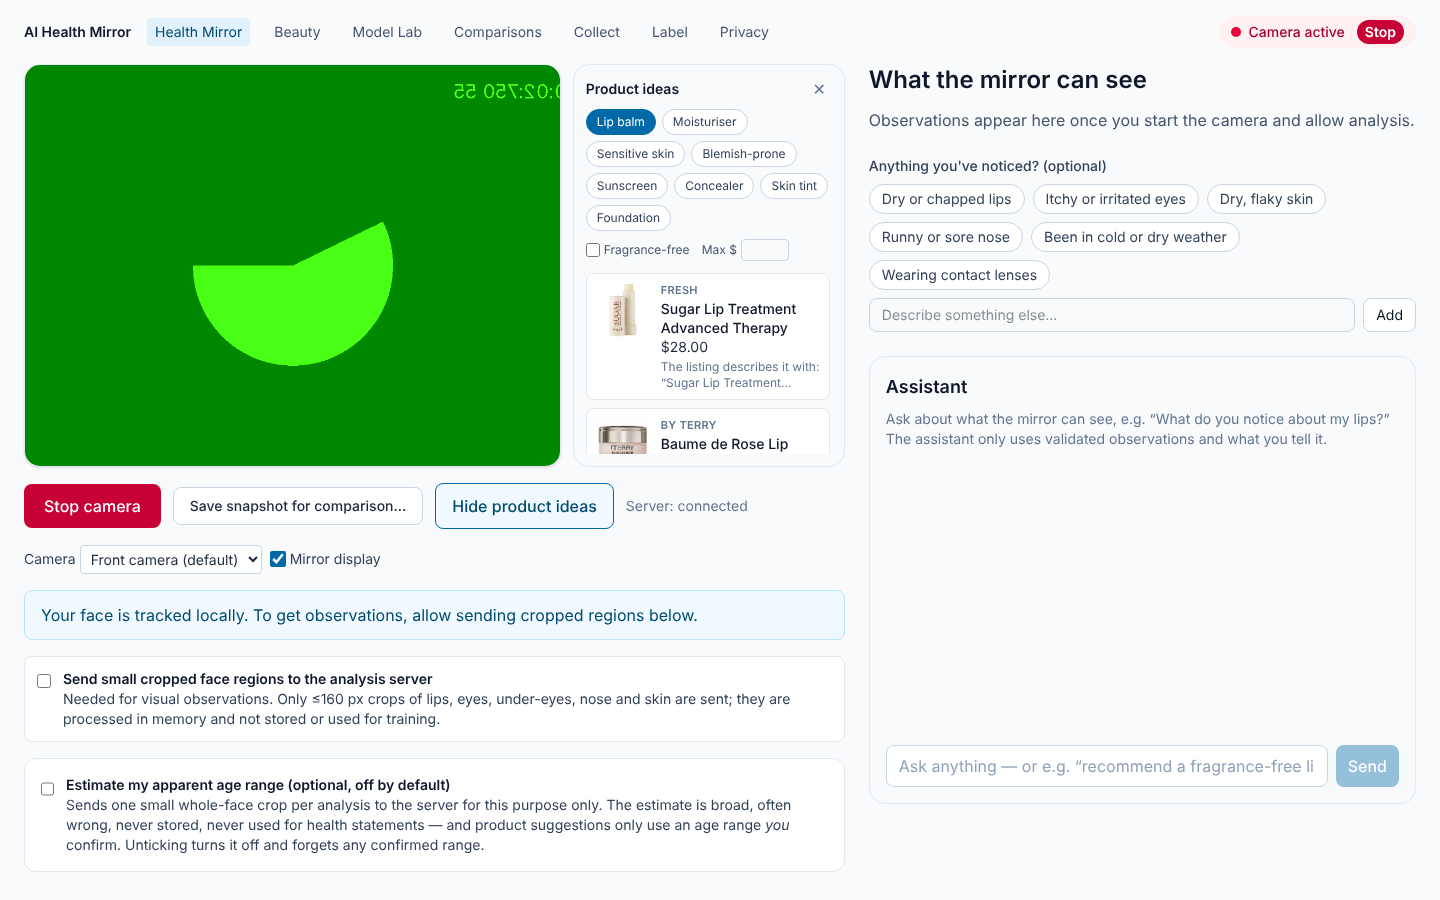
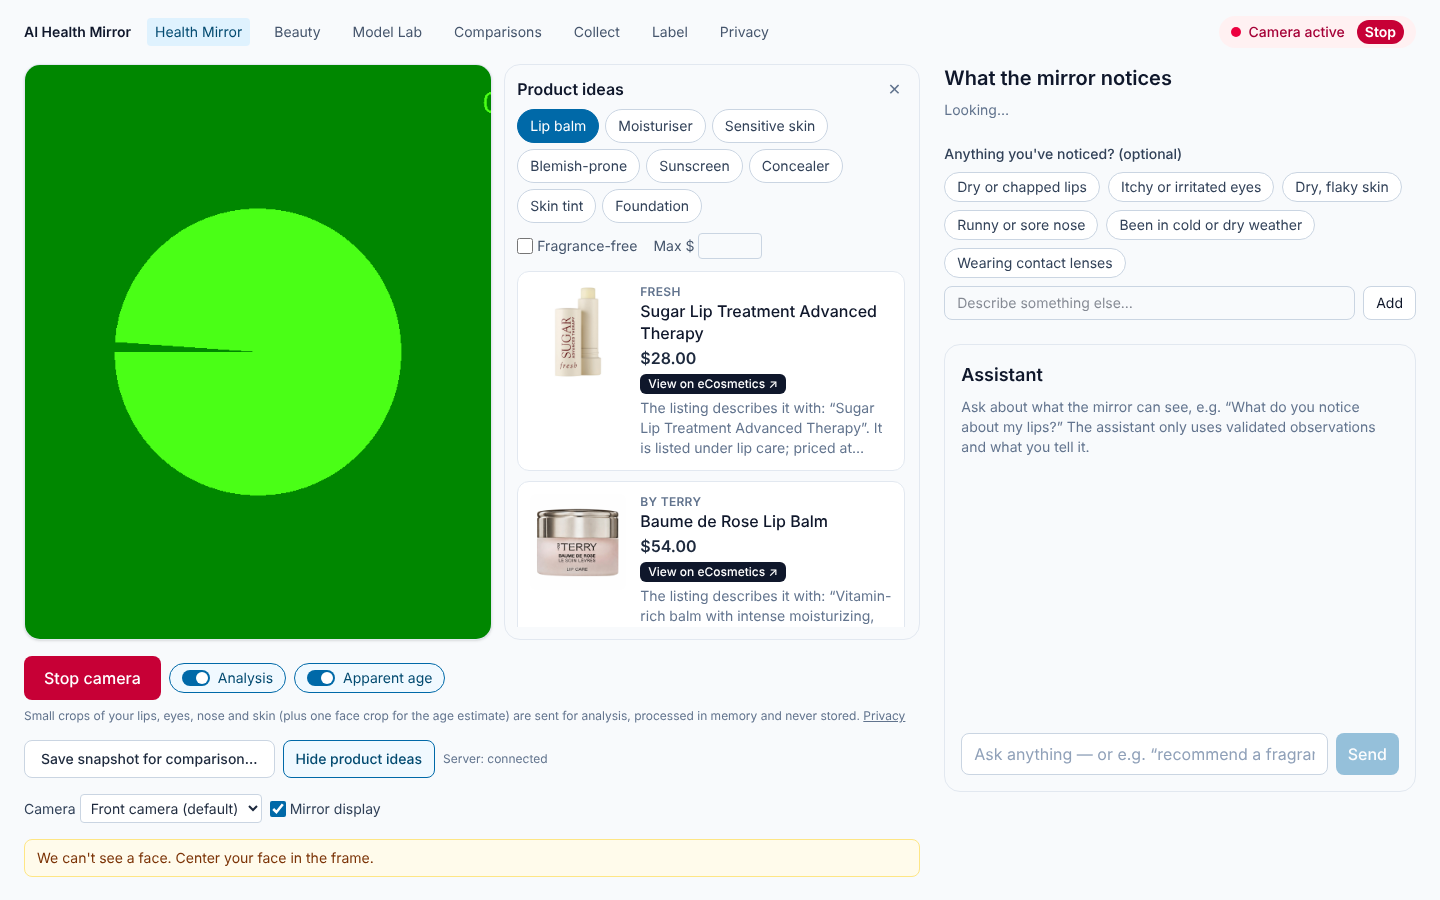
Bigger product ideas panel beside the mirror
Wider sidebar (22-26rem), larger product cards (96px images, larger name and
price, 'View on eCosmetics' cue, three lines of explanation), larger chips and
controls; the video stretches to the panel height so both line up.

Claude-Session: https://claude.ai/code/session_019ZWJU4FG2Bk888JLbkFi3a

diff --git a/frontend/components/Beauty/ProductSidebar.tsx b/frontend/components/Beauty/ProductSidebar.tsx
@@ -39,7 +39,7 @@ export function ProductSidebar({ onClose }: { onClose?: () => void }) {
   return (
     <aside aria-label="Product ideas" className="flex h-full max-h-full min-h-0 flex-col overflow-hidden rounded-2xl border border-slate-200 bg-slate-50 p-3">
       <div className="mb-2 flex items-center justify-between">
-        <h2 className="text-sm font-semibold text-slate-900">Product ideas</h2>
+        <h2 className="text-base font-semibold text-slate-900">Product ideas</h2>
         {onClose && (
           <button type="button" onClick={onClose} className="rounded px-1.5 text-slate-500 hover:bg-slate-200" aria-label="Hide product ideas">
             ✕
@@ -54,7 +54,7 @@ export function ProductSidebar({ onClose }: { onClose?: () => void }) {
             onClick={() => setPicked(c)}
             aria-pressed={active?.key === c.key}
             className={cx(
-              "rounded-full border px-2.5 py-1 text-xs",
+              "rounded-full border px-3 py-1.5 text-sm",
               active?.key === c.key ? "border-sky-700 bg-sky-700 text-white" : "border-slate-300 bg-white text-slate-700 hover:border-sky-400",
             )}
             title={c.fromObservation ? "Based on what the mirror noticed in this image" : undefined}
@@ -64,18 +64,18 @@ export function ProductSidebar({ onClose }: { onClose?: () => void }) {
           </button>
         ))}
       </div>
-      <div className="mt-2 flex items-center gap-3 text-xs text-slate-600">
+      <div className="mt-2.5 flex items-center gap-4 text-sm text-slate-600">
         <label className="flex items-center gap-1">
-          <input type="checkbox" checked={fragranceFree} onChange={(e) => setFragranceFree(e.target.checked)} className="h-3.5 w-3.5" />
+          <input type="checkbox" checked={fragranceFree} onChange={(e) => setFragranceFree(e.target.checked)} className="h-4 w-4" />
           Fragrance-free
         </label>
         <label className="flex items-center gap-1">
           Max $
-          <input value={budget} onChange={(e) => setBudget(e.target.value.replace(/[^0-9.]/g, ""))} inputMode="decimal" className="w-12 rounded border border-slate-300 px-1 py-0.5" aria-label="Maximum price" />
+          <input value={budget} onChange={(e) => setBudget(e.target.value.replace(/[^0-9.]/g, ""))} inputMode="decimal" className="w-16 rounded border border-slate-300 px-1.5 py-0.5" aria-label="Maximum price" />
         </label>
       </div>
 
-      <div className="mt-3 min-h-0 flex-1 space-y-2 overflow-y-auto pr-0.5">
+      <div className="mt-3 min-h-0 flex-1 space-y-2.5 overflow-y-auto pr-0.5">
         {!active && <p className="text-xs text-slate-500">Tap what you&apos;re looking for{noticed.length === 0 ? " — or turn on analysis and ideas will follow what the mirror notices" : ""}.</p>}
         {active && active.fromObservation && !picked && (
           <p className="text-xs text-slate-500">Following what the mirror noticed ({active.label.toLowerCase()}). Tap another option any time.</p>
@@ -83,7 +83,7 @@ export function ProductSidebar({ onClose }: { onClose?: () => void }) {
         {recommendation.pending && <p className="text-xs text-slate-500">Finding products…</p>}
         {recommendation.error && <p role="alert" className="text-xs text-rose-700">{recommendation.error}</p>}
         {res && !recommendation.pending && res.results.length === 0 && <p className="text-xs text-slate-500">No matching listings — try another option or remove filters.</p>}
-        {res?.results.map((r) => <MiniProductCard key={r.product.product_id} ranked={r} why={why.get(r.product.product_id)} />)}
+        {res?.results.map((r) => <MiniProductCard key={r.product.product_id} ranked={r} why={why.get(r.product.product_id)} size="lg" />)}
         {res && res.results.length > 0 && (
           <p className="pt-1 text-[11px] leading-snug text-slate-400">From eCosmetics listings; ranked by your choices, not product testing. Opens the retailer site.</p>
         )}

diff --git a/frontend/components/Beauty/MiniProductCard.tsx b/frontend/components/Beauty/MiniProductCard.tsx
@@ -4,30 +4,32 @@ import type { RankedProduct } from "@/lib/catalog";
 import { formatPrice } from "@/lib/beauty";
 
 /** Compact product row for the sidebar and for products shown inside chat replies. */
-export function MiniProductCard({ ranked, why, dark = false }: { ranked: RankedProduct; why?: string; dark?: boolean }) {
+export function MiniProductCard({ ranked, why, dark = false, size = "sm" }: { ranked: RankedProduct; why?: string; dark?: boolean; size?: "sm" | "lg" }) {
   const p = ranked.product;
+  const lg = size === "lg";
   return (
     <a
       href={p.url}
       target="_blank"
       rel="noopener noreferrer"
       aria-label={`${p.brand ?? ""} ${p.name} on eCosmetics (opens in a new tab)`}
-      className={`flex gap-2.5 rounded-lg border p-2 transition-colors ${dark ? "border-zinc-700 bg-zinc-900 hover:bg-zinc-800" : "border-slate-200 bg-white hover:bg-slate-50"}`}
+      className={`flex ${lg ? "gap-3.5 rounded-xl p-3" : "gap-2.5 rounded-lg p-2"} border transition-colors ${dark ? "border-zinc-700 bg-zinc-900 hover:bg-zinc-800" : "border-slate-200 bg-white hover:bg-slate-50"}`}
     >
       {p.image_url ? (
         // eslint-disable-next-line @next/next/no-img-element
-        <img src={p.image_url} alt="" loading="lazy" referrerPolicy="no-referrer" className="h-14 w-14 shrink-0 rounded-md bg-slate-100 object-contain" />
+        <img src={p.image_url} alt="" loading="lazy" referrerPolicy="no-referrer" className={`${lg ? "h-24 w-24 rounded-lg" : "h-14 w-14 rounded-md"} shrink-0 bg-white object-contain`} />
       ) : (
-        <div className="h-14 w-14 shrink-0 rounded-md bg-slate-100" />
+        <div className={`${lg ? "h-24 w-24 rounded-lg" : "h-14 w-14 rounded-md"} shrink-0 bg-slate-100`} />
       )}
       <span className="min-w-0 flex-1">
-        <span className={`block truncate text-[11px] font-semibold uppercase tracking-wide ${dark ? "text-zinc-400" : "text-slate-500"}`}>{p.brand ?? ""}</span>
-        <span className={`line-clamp-2 text-sm font-medium leading-snug ${dark ? "text-zinc-100" : "text-slate-900"}`}>{p.name}</span>
-        <span className={`block text-sm ${p.price == null ? "text-slate-500" : dark ? "text-zinc-200" : "text-slate-800"}`} data-testid="mini-price">
+        <span className={`block truncate ${lg ? "text-xs" : "text-[11px]"} font-semibold uppercase tracking-wide ${dark ? "text-zinc-400" : "text-slate-500"}`}>{p.brand ?? ""}</span>
+        <span className={`line-clamp-2 ${lg ? "text-base" : "text-sm"} font-medium leading-snug ${dark ? "text-zinc-100" : "text-slate-900"}`}>{p.name}</span>
+        <span className={`mt-0.5 block ${lg ? "text-base font-semibold" : "text-sm"} ${p.price == null ? "text-slate-500" : dark ? "text-zinc-200" : "text-slate-800"}`} data-testid="mini-price">
           {formatPrice(p)}
           {p.stale && <span className="ml-1 rounded bg-amber-100 px-1 text-[10px] font-semibold text-amber-900">stale</span>}
         </span>
-        {why && <span className={`mt-0.5 line-clamp-2 text-xs ${dark ? "text-zinc-400" : "text-slate-500"}`}>{why}</span>}
+        {lg && <span className="mt-1 inline-block rounded-md bg-slate-900 px-2 py-0.5 text-xs font-medium text-white">View on eCosmetics ↗</span>}
+        {why && <span className={`mt-1 ${lg ? "line-clamp-3 text-sm" : "line-clamp-2 text-xs"} ${dark ? "text-zinc-400" : "text-slate-500"}`}>{why}</span>}
       </span>
     </a>
   );

diff --git a/frontend/components/Mirror/MirrorApp.tsx b/frontend/components/Mirror/MirrorApp.tsx
@@ -26,14 +26,14 @@ function MirrorInner() {
         <SiteNav current="/mirror" />
         <CameraActiveIndicator />
       </header>
-      <main id="main" className={`mx-auto grid ${width} grid-cols-[minmax(0,1fr)] gap-6 px-4 pb-12 sm:px-6 lg:grid-cols-[minmax(0,1.1fr)_minmax(0,1fr)] ${ideas ? "xl:grid-cols-[minmax(0,1.5fr)_minmax(0,1fr)]" : ""}`}>
+      <main id="main" className={`mx-auto grid ${width} grid-cols-[minmax(0,1fr)] gap-6 px-4 pb-12 sm:px-6 lg:grid-cols-[minmax(0,1.1fr)_minmax(0,1fr)] ${ideas ? "xl:grid-cols-[minmax(0,1.9fr)_minmax(0,1fr)]" : ""}`}>
         <section aria-label="Camera" className="space-y-4">
-          <div className={ideas ? "grid grid-cols-[minmax(0,1fr)] gap-3 md:grid-cols-[minmax(0,1fr)_17rem]" : ""}>
-            <div className="aspect-[4/3] overflow-hidden rounded-2xl border border-slate-200 bg-slate-200 shadow-sm">
+          <div className={ideas ? "grid grid-cols-[minmax(0,1fr)] gap-3 md:grid-cols-[minmax(0,1fr)_22rem] xl:grid-cols-[minmax(0,1fr)_26rem]" : ""}>
+            <div className={`overflow-hidden rounded-2xl border border-slate-200 bg-slate-200 shadow-sm ${ideas ? "aspect-[4/3] md:aspect-auto md:h-full md:min-h-[36rem]" : "aspect-[4/3]"}`}>
               <CameraView layers={MIRROR_LAYERS} mirrored={settings.mirrored} fit="cover" dark={false} />
             </div>
             {ideas && (
-              <div className="relative h-[28rem] md:h-auto">
+              <div className="relative h-[34rem] md:h-auto md:min-h-[36rem]">
                 <div className="h-full md:absolute md:inset-0">
                   <ProductSidebar onClose={() => setIdeas(false)} />
                 </div>
